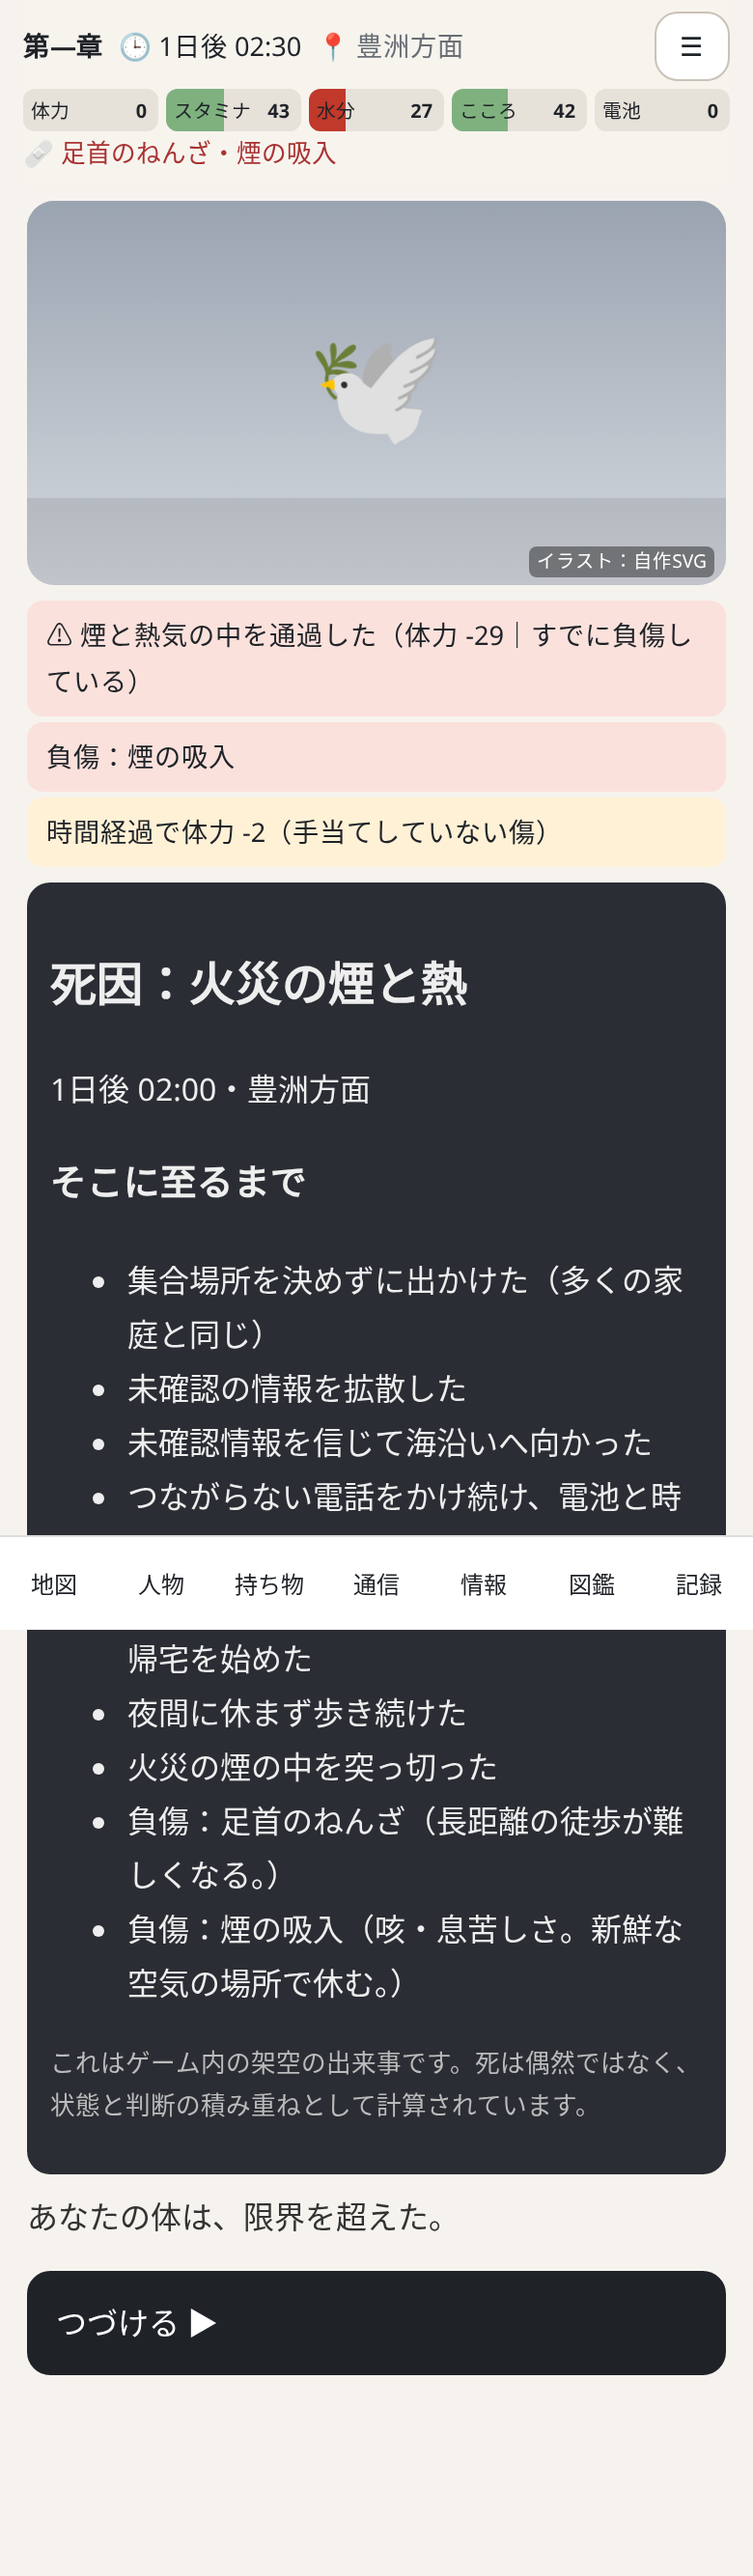
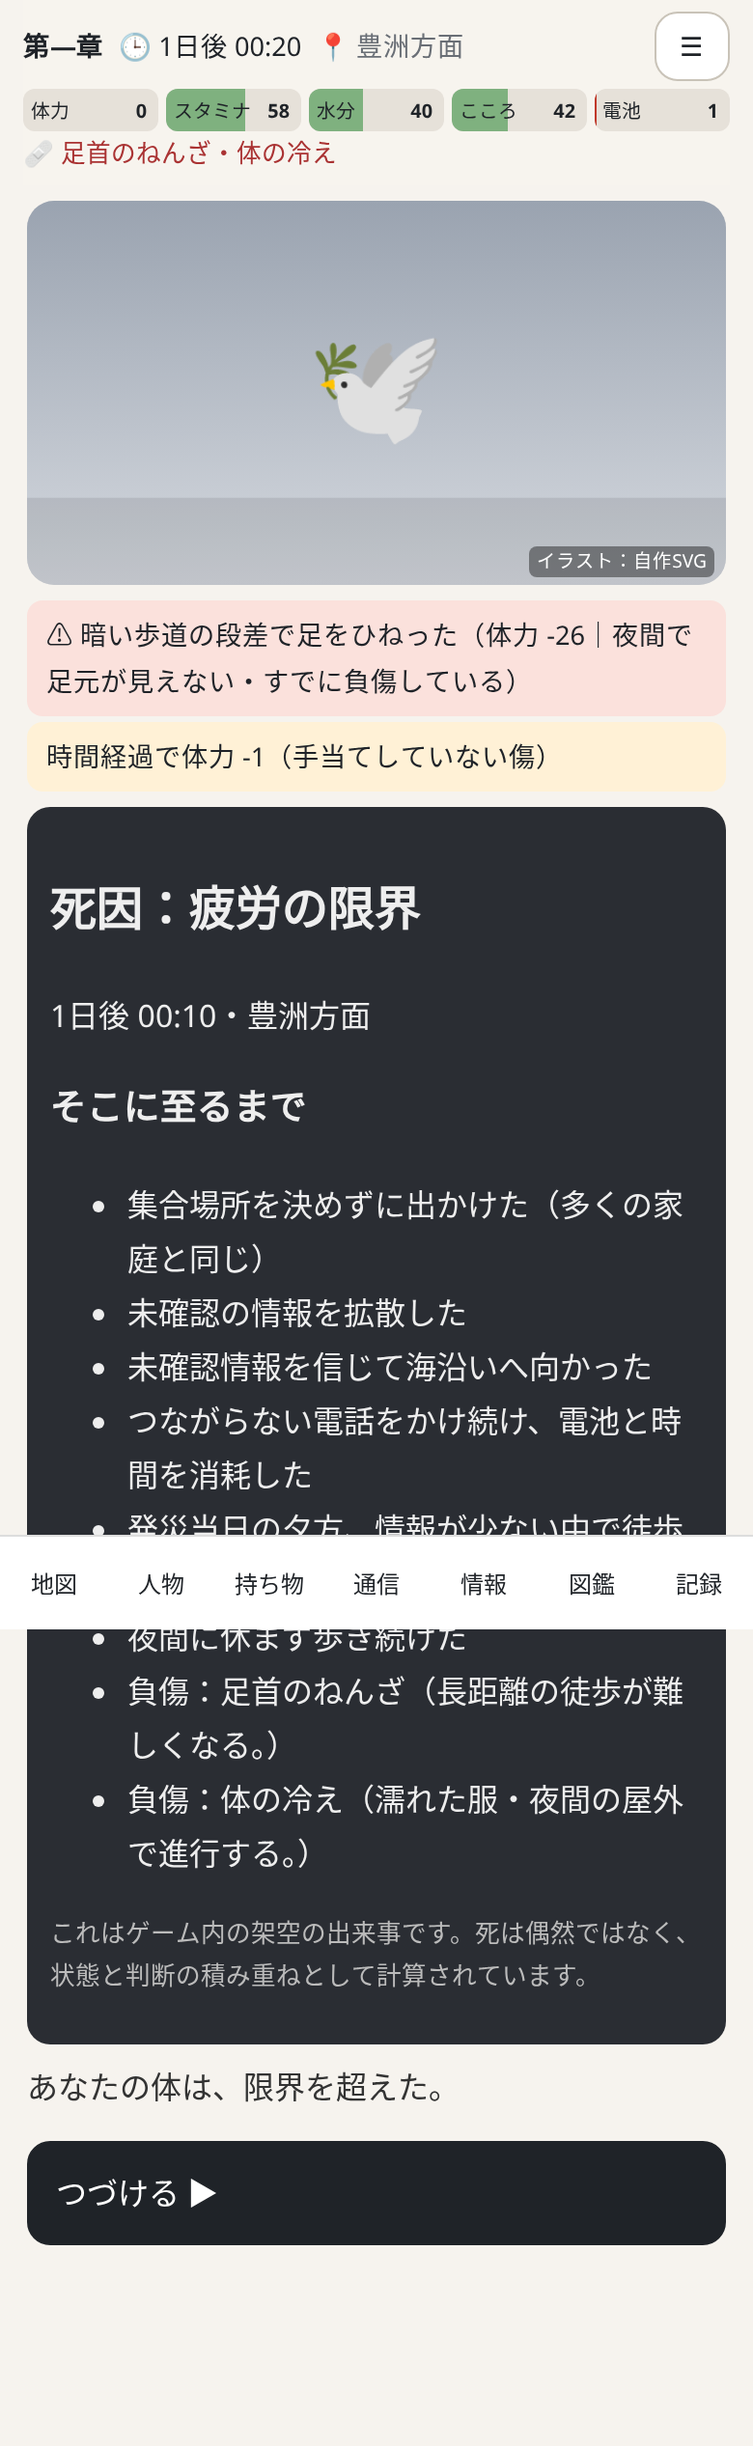
Stage 20: ch3 dusk-plaza route chains

diff --git a/src/data/scenes6z.ts b/src/data/scenes6z.ts
@@ -1295,5 +1295,122 @@ export const ch6z: Scene[] = [
     ['', '{me}は、プリントを、そっと元の場所に戻した。それから、律の布団を、肩まで引き上げた。'],
     ['', 'ランドセルの横の布袋が、かすかに揺れた。中で、貝がらが、ころん、と鳴った。'],
   ], { next: 'c5_year' }),
+  // ==== Stage 20: ch3 ルート別「夕暮れの広場」（c3_dusk → c3_dk_r → 各ルート → c3_dusk_r） ====
+  R('c3_dk_r', 3, [{ if: { preset: 'worker' }, goto: 'c3w_dkA' }, { if: { preset: 'student' }, goto: 'c3s_dkA' }, { if: {}, goto: 'c3p_dkA' }]),
+  S('c3w_dkA', 3, 'crowd', [
+    ['', '柵の近くに、配達用の大きなリュックを背負った若い男が座りこんでいた。リュックの側面には、どこかの宅配サービスのロゴ（※架空）。'],
+    ['', '男は、リュックを開けたり閉めたりしていた。中には、紙袋が三つ。どれも、届けるはずだった、誰かの晩ごはんだった。'],
+    ['配達員', '……注文した人、豊洲のマンションなんすよ。橋、渡れないし。アプリも落ちてるし。'],
+    ['配達員', 'キャンセルにもできないんです。どうすればいいか、誰も教えてくれなくて。'],
+    ['', '{me}は、自分の会社のことを思い出した。今日の夕方に届くはずだった部品。明日の朝の会議。どれも、もう、どうでもいいことのはずなのに、頭のどこかで、まだ、予定表がめくれ続けていた。'],
+    ['{me}', '……今日は、もう、誰も、あなたを責めないと思いますよ。'],
+    ['配達員', 'そうっすかね。'],
+    ['', '男は、紙袋の一つを、そっと膝の上に置いた。温かさは、もう、残っていないようだった。'],
+  ], { choices: [
+      C('share', '「一緒に、ホールの人に聞いてみましょう」と言う', 'c3w_dkB', { icon: '🤝', effects: { mental: 2 }, result: '男は、少し迷ってから、うなずいた。「……一人で決めなくていいなら、助かります」。' }),
+      C('listen', '何も言わず、隣に座っている', 'c3w_dkB', { icon: '…', effects: { stamina: 2 }, result: '二人で、しばらく、黙って柵にもたれていた。黙っていても、隣に誰かがいるのは、ひとりとは違った。' }),
+    ] }),
+  S('c3w_dkB', 3, 'crowd', [
+    ['', '日が、ビルの向こうに沈みかけていた。'],
+    ['配達員', 'お子さん、いるんすか。さっき、写真見てたでしょ。'],
+    ['{me}', '娘が一人。二年生。'],
+    ['配達員', 'いいなあ。俺、実家、遠いんすよ。親には、さっき、なんとかメッセージだけ送れました。「生きてる」って、四文字だけ。'],
+    ['配達員', '「生きてる」って、送ったの、生まれて初めてです。'],
+    ['', '{me}は、笑いかけて、やめた。笑うようなことではなかった。でも、男の方が、先に、少し笑った。'],
+    ['配達員', '変な言葉っすよね。今まで、わざわざ言う必要なかったのに。'],
+    ['', '{me}は、陽菜に、まだ、その四文字を届けられていなかった。'],
+    ['', '画面を点けかけて、やめる。電池を使うなら、ちゃんと、届く方法で使いたかった。'],
+  ], { choices: [
+      C('plan', '「伝言ダイヤルとか、使える方法を、あとで一緒に確かめよう」', 'c3w_dkC', { icon: '☎', effects: { know: 'k_comm' }, result: '「そんなのあるんすね」。男は、手の甲に、ボールペンで「171」と書いた。' }),
+      C('photo', '陽菜の写真を、一枚だけ、男に見せる', 'c3w_dkC', { icon: '📷', effects: { mental: 3 }, result: '「目、そっくりっすね」。男はそう言った。千夏にも、よく言われる言葉だった。' }),
+    ] }),
+  S('c3w_dkC', 3, 'crowd', [
+    ['', '男は、紙袋の一つを、{me}に差し出した。'],
+    ['配達員', 'これ、たぶん、もう届けられないんで。……あ、でも、勝手に配っていいのかな。'],
+    ['', '迷った末に、男は、それを、ホールの受付に預けると言った。「お客さんのものだから、自分では食べられない」。'],
+    ['', '律儀だ、と、{me}は思った。こんな日に、律儀でいられる人がいる。'],
+    ['', '男が立ち上がる。リュックが、さっきより、少しだけ軽そうに見えた。'],
+    ['配達員', 'じゃ、また、どこかで。……お互い、帰れたら。'],
+    ['{me}', 'ああ。帰れたら。'],
+    ['', '「帰れたら」。その言葉が、夕暮れの広場に、ぽつんと残った。'],
+    ['', '（この配達員は架空の人物です）'],
+  ], { next: 'c3_dusk_r' }),
+  S('c3s_dkA', 3, 'crowd', [
+    ['', '{me}は、広場の端の植え込みに腰を下ろした。'],
+    ['', '隣で、制服の女の子が、スマホを両手で握りしめていた。モールで見かけた、あの高校生だった。'],
+    ['女の子', 'あ……お姉さん。'],
+    ['女の子', 'ママから、やっと、一通だけ来ました。「学校にいて」って。でも、わたし、学校じゃなくて、ここにいるんです。今日、部活、サボって来てて。'],
+    ['', '女の子は、泣きそうな顔で、笑った。'],
+    ['女の子', '怒られますよね。こんな日に、サボってたなんて。'],
+    ['', '{me}は、自分のことを考えた。今日、お台場に来た理由。誰にも、ちゃんとは言っていなかった。'],
+    ['{me}', '怒られるかもね。でも、たぶん、怒るより先に、ほっとすると思う。'],
+  ], { choices: [
+      C('honest', '「本当のことを、そのまま送ったほうがいいよ」と言う', 'c3s_dkB', { icon: '💬', effects: { mental: 2 }, result: '女の子は、うなずいて、「今、お台場。無事。ごめんなさい」と打った。送信の丸が、ぐるぐる回り続けた。' }),
+      C('together', '「わたしも、言ってないことあるよ」と打ち明ける', 'c3s_dkB', { icon: '🤫', effects: { mental: 3 }, result: '女の子は、目を丸くした。「お姉さんも、サボり仲間ですか」。二人で、少しだけ、笑った。' }),
+    ] }),
+  S('c3s_dkB', 3, 'crowd', [
+    ['', '空が、群青色に変わり始めていた。'],
+    ['女の子', 'お姉さん、大学生ですか。'],
+    ['{me}', 'うん。二年。'],
+    ['女の子', '大学って、楽しいですか。'],
+    ['', 'こんな日に、こんな質問。でも、女の子は、本気で聞いていた。明日のことを考えるのが怖いから、もっと先のことを、聞きたかったのかもしれない。'],
+    ['{me}', '……楽しいよ。課題は多いけど。'],
+    ['{me}', '一年の時、おばあちゃんに、学食のカレーの写真、毎日送ってた。「今日も食べた」って。おばあちゃん、毎回、「えらいね」って返してくれて。'],
+    ['女の子', 'カレー食べただけで、えらいんですか。'],
+    ['{me}', 'おばあちゃん的には、えらいらしい。'],
+    ['', '女の子が、声を出して笑った。近くの大人が、ちらりと振り返って、それから、少しだけ、表情をゆるめた。'],
+  ], { choices: [
+      C('warm', '自分の上着を、女の子の肩にかける', 'c3s_dkC', { icon: '🧥', effects: { stamina: -2, mental: 3 }, result: '「え、いいです、お姉さんが寒い」「わたし、厚着してきたから」。半分は、嘘だった。' }),
+      C('blanket', '「ホールで毛布を配るらしいよ」と教える', 'c3s_dkC', { icon: '🧣', effects: { know: 'k_temp_facility' }, result: '女の子は、ホールの方を見た。「……一緒に、行ってもいいですか」。' }),
+    ] }),
+  S('c3s_dkC', 3, 'crowd', [
+    ['', '街灯が、ぽつ、ぽつ、と点いた。点かない街灯もあった。'],
+    ['女の子', 'わたし、将来、何になりたいか、ぜんぜん決まってないんです。'],
+    ['女の子', 'でも、今日、救護所で走り回ってる人たち見て、ちょっと、かっこいいなって思いました。'],
+    ['', '{me}は、何も言わなかった。言葉にすると、その「かっこいい」が、軽くなってしまう気がした。'],
+    ['', '女の子のスマホが、ぶるっと震えた。画面を見た女の子が、息をのむ。'],
+    ['女の子', '……ママ。「どこでもいい。生きてて。」って。'],
+    ['', '女の子は、画面を胸に押し当てて、しばらく動かなかった。'],
+    ['', '{me}は、自分のスマホを見た。新しい通知は、なかった。それでも、画面を閉じる指は、さっきより、少しだけ落ち着いていた。'],
+    ['', '（女の子は架空の人物です）'],
+  ], { next: 'c3_dusk_r' }),
+  S('c3p_dkA', 3, 'crowd', [
+    ['', '広場の真ん中で、小さな男の子が、泣きながら、くるくる回っていた。四歳くらい。律より、少し小さい。'],
+    ['', '周りの大人たちは、気づいていた。でも、誰も、すぐには動けなかった。みんな、自分のことで、手一杯だった。'],
+    ['', '{me}は、律の手を引いたまま、しゃがんで、目の高さを合わせた。律にそうするのと、同じように。'],
+    ['{me}', 'どうした。おうちの人、いない？'],
+    ['男の子', '……パパ、トイレいった。ここでまっててって。でも、こない。'],
+    ['', '男の子の手には、ペットボトルのキャップが一つ、握られていた。父親のものだろうか。'],
+    ['', 'トイレの列は、広場の向こうまで伸びていた。三十分、四十分。来ないのではなく、まだ、戻れないだけかもしれなかった。'],
+  ], { choices: [
+      C('stay', '「じゃあ、おじさんと、ここで一緒に待とう」と言う', 'c3p_dkB', { icon: '🧒', effects: { mental: 2 }, result: '男の子は、こくりとうなずいて、{me}のズボンの裾を、ぎゅっとつかんだ。' }),
+      C('staff', '近くの職員に知らせ、一緒にその場で待つ', 'c3p_dkB', { icon: '📢', effects: { report: { cat: 'care', score: 1, note: '迷子をその場から動かさず、職員に知らせた' } }, result: '職員は、男の子の服の特徴をメモして、拡声器で呼びかけてくれた。' }),
+    ] }),
+  S('c3p_dkB', 3, 'crowd', [
+    ['', '待つ間、男の子は、少しずつ、話し始めた。'],
+    ['男の子', 'きょうね、ゆうえんち、いくはずだったの。'],
+    ['{me}', 'そっか。何に乗りたかった？'],
+    ['男の子', 'かんらんしゃ。'],
+    ['', '{me}は、遠くの観覧車を見上げた。止まったまま、夕暮れの空に、黒い輪の影を描いている。中に、誰も残っていませんように、と思った。'],
+    ['{me}', 'おじさんの子どももね、観覧車、好きなんだ。てっぺんで、毎回、「いま、いちばんたかい！」って言うの。'],
+    ['男の子', 'ぼくも、いう。'],
+    ['', '{me}の隣で、律が、男の子をじっと見ていた。自分より小さい子を見るときの、少しだけお兄さんぶった顔だった。'],
+    ['', 'もし、今日、律とはぐれていたら。考えかけて、胸の奥が、きゅっと縮んだ。{me}は、それを、二人に見せないように、笑った。'],
+  ], { choices: [
+      C('game', '「パパが来るまで、しりとりしよう」と誘う', 'c3p_dkC', { icon: '🔤', effects: { mental: 3 }, result: '「りんご」「ごりら」「らっぱ」。律も、横から「ぱんだ！」と割り込んだ。何百回もやった順番だった。' }),
+      C('count', '「観覧車のゴンドラ、いくつあるか数えよう」と誘う', 'c3p_dkC', { icon: '🎡', effects: { mental: 2 }, result: '二人で数えて、途中で分からなくなった。「もういっかい」。男の子が、初めて、笑った。' }),
+    ] }),
+  S('c3p_dkC', 3, 'crowd', [
+    ['', '人ごみを、かき分けて、男が走ってきた。'],
+    ['男の子の父親', 'ゆうと！'],
+    ['', '男の子が、{me}の手を離して、走り出した。父親は、膝をついて、男の子を抱きとめた。'],
+    ['男の子の父親', 'すみません、すみません……列が、ぜんぜん進まなくて……ありがとうございます、本当に。'],
+    ['{me}', 'いえ。うちにも、同じくらいの子がいるんで。'],
+    ['', '父親は、何度も頭を下げて、男の子の手を引いて、去っていった。男の子が、一度だけ、振り返って、手を振った。'],
+    ['', '{me}の手のひらに、ペットボトルのキャップが残っていた。返しそびれた。'],
+    ['', '律が、{me}の袖を引いた。「あのこ、パパ、いた？」「いたよ」。律は、満足そうに、うなずいた。'],
+    ['', '{me}は、律の手を、もう一度、握り直した。強く握りすぎて、律が「いたい」と笑った。'],
+    ['', '（この親子は架空の人物です）'],
+  ], { next: 'c3_dusk_r' }),
 // @@END
 ];

diff --git a/src/data/scenes2.ts b/src/data/scenes2.ts
@@ -15,7 +15,7 @@ export const ch3: Scene[] = [
     ['', '晩ごはん。その言葉を思い浮かべたとたん、お腹が鳴った。昼から何も食べていなかった。こんな時にも、体は、ちゃんとお腹をすかせる。それが、なんだか、悔しくて、少しだけ、ありがたかった。'],
     ['', 'ポケットに、飴が一つ入っていた。いつ入れたのか覚えていない、レモン味の飴。口に入れると、すっぱさが、頭の芯まで届いた。'],
     ['', '今夜、どこで眠るのか。そもそも、眠れるのか。考えたくない問いが、夕暮れと一緒に、足元から、ゆっくりとせり上がってくる。'],
-  ], { onEnter: { know: 'k_temp_facility' }, next: 'c3_dusk_r' }),
+  ], { onEnter: { know: 'k_temp_facility' }, next: 'c3_dk_r' }),
   S('c3_dusk_r', 3, 'crowd', [['', '…']], { alt: [{ if: { preset: 'worker' }, goto: 'c3w_dusk' }, { if: { preset: 'student' }, goto: 'c3s_dusk' }, { if: {}, goto: 'c3p_dusk' }] }),
   S('c3w_dusk', 3, 'crowd', [
     ['', '{me}は、広場の柵にもたれて、スマホの写真フォルダを開いた。'],
